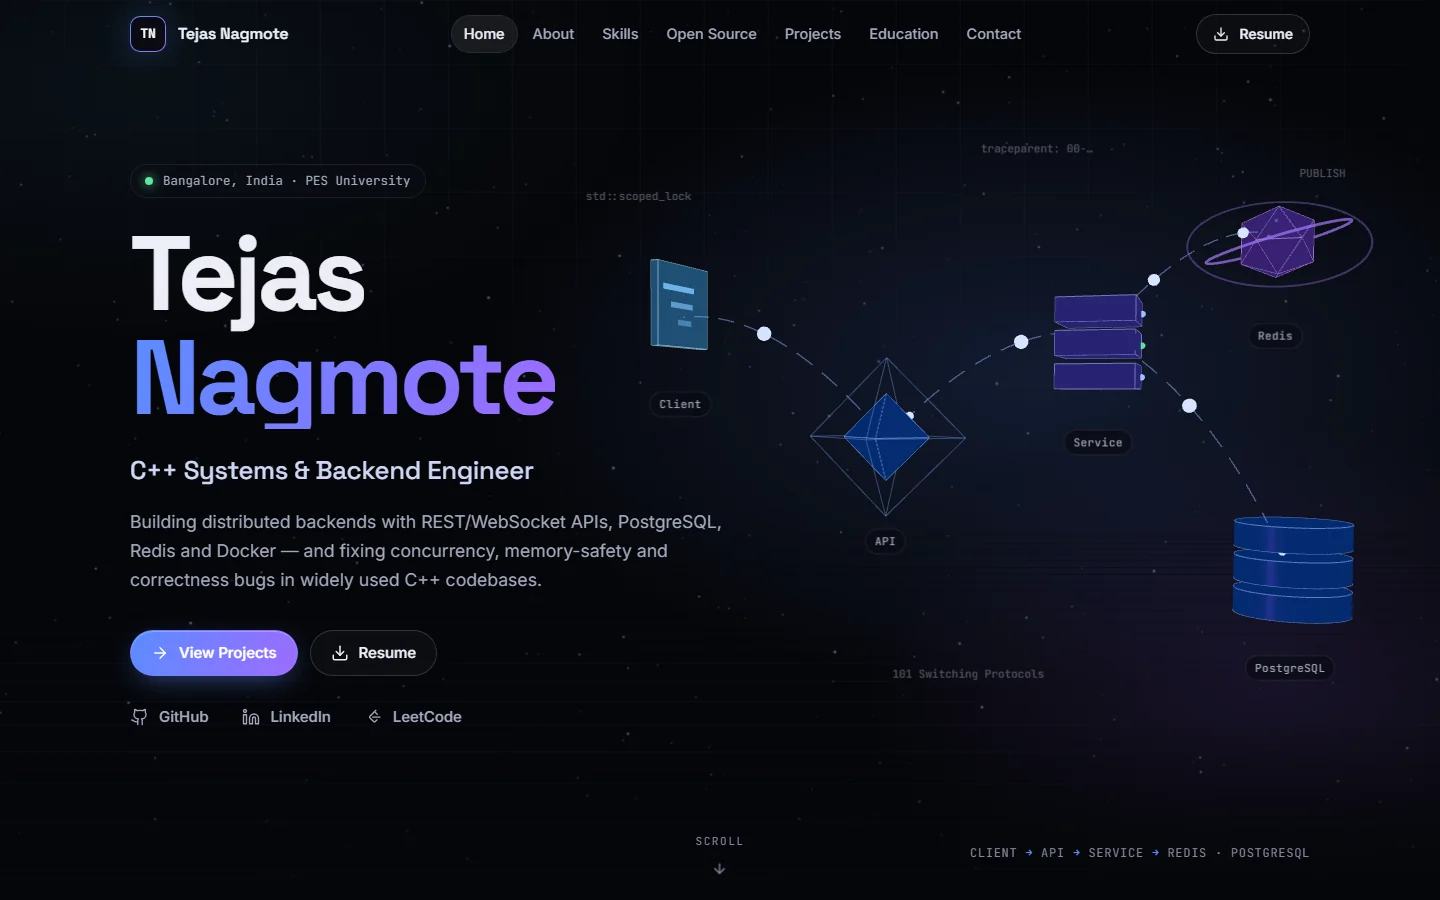
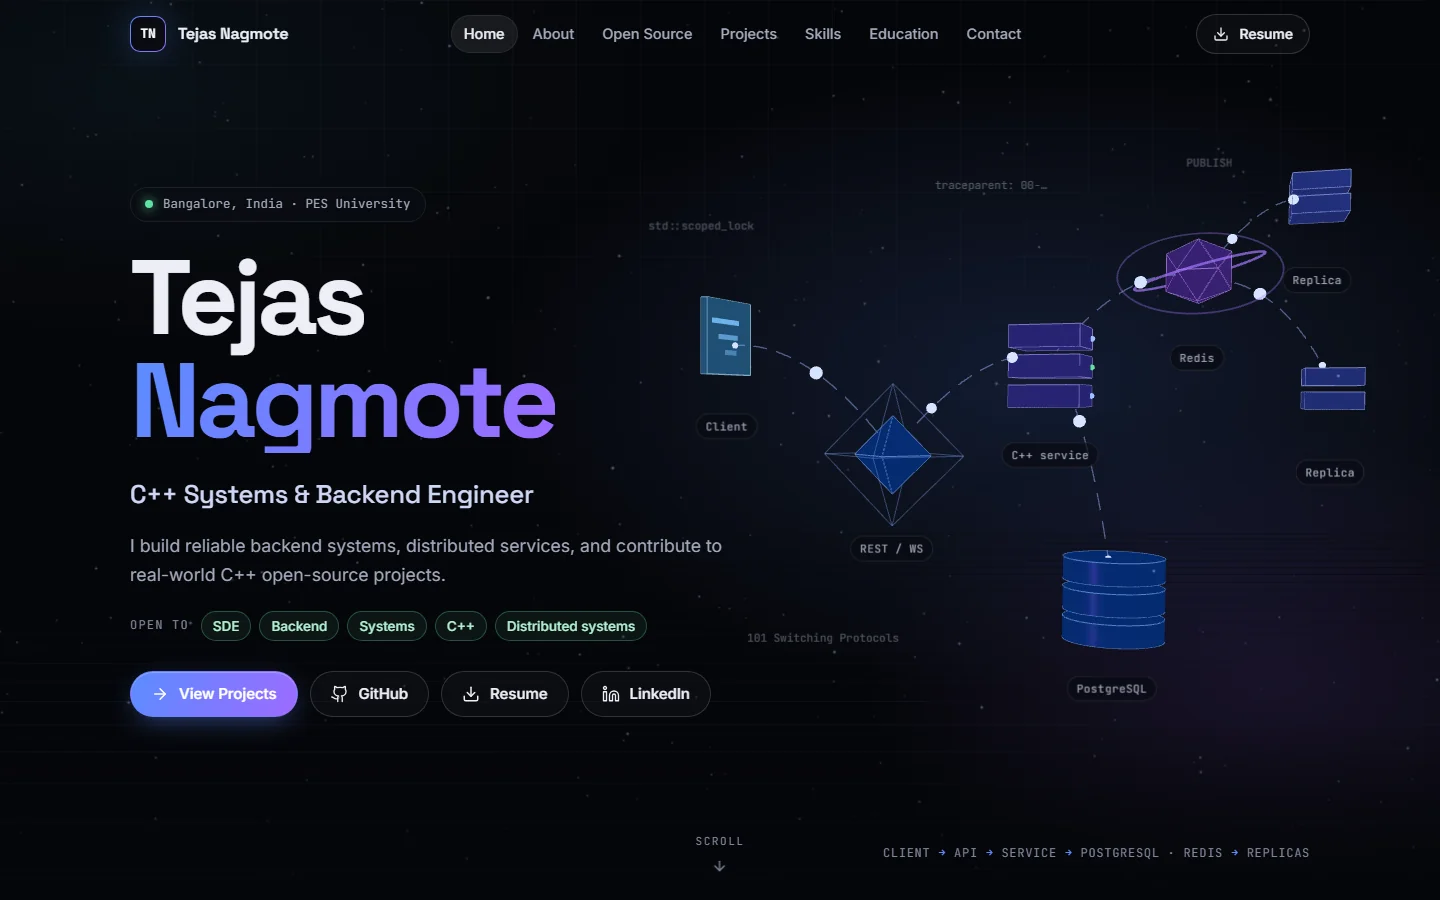
polish loading, performance and docs
- Loading indicators while the 3D scenes download.
- Name the lazily loaded three.js chunk via chunkFileNames, without changing grouping, so it stays out of the initial load.
- Nav background more opaque for browsers without backdrop blur.
- New screenshots and Open Graph image; README rewritten for the new structure, performance notes and Lighthouse results.

diff --git a/src/three/HeroVisual.tsx b/src/three/HeroVisual.tsx
@@ -1,6 +1,7 @@
 import { lazy, Suspense, useEffect, useRef, useState, type RefObject } from 'react'
 import { ErrorBoundary } from '../components/ErrorBoundary'
 import { HeroFallback } from '../components/HeroFallback'
+import { SceneLoader } from '../components/SceneLoader'
 import { useIdle } from '../hooks/useIdle'
 import { usePrefersReducedMotion } from '../hooks/useMediaQuery'
 import { getRenderProfile } from '../utils/device'
@@ -55,7 +56,7 @@ export function HeroVisual({ eventSource }: HeroVisualProps) {
   return (
     <div ref={ref} className="hero-visual">
       <ErrorBoundary name="hero-scene" fallback={<HeroFallback />}>
-        <Suspense fallback={null}>
+        <Suspense fallback={<SceneLoader label="Starting 3D scene" />}>
           {idle && (
             <Scene
               frameloop={frameloop}

diff --git a/vite.config.ts b/vite.config.ts
@@ -40,6 +40,16 @@ export default defineConfig(({ mode }) => {
       target: 'es2022',
       // three.js is lazy-loaded into its own chunk; it is legitimately large.
       chunkSizeWarningLimit: 1000,
+      rolldownOptions: {
+        output: {
+          // Name the lazily loaded 3D vendor chunk after what is in it. This
+          // only renames the file; it does not change how modules are grouped.
+          chunkFileNames: (chunk) =>
+            chunk.moduleIds.some((id) => /node_modules[\\/]three[\\/]/.test(id))
+              ? 'assets/three-[hash].js'
+              : 'assets/[name]-[hash].js',
+        },
+      },
     },
     test: {
       environment: 'node',

diff --git a/src/sections/Hero.css b/src/sections/Hero.css
@@ -383,3 +383,16 @@
     font-size: 11px;
   }
 }
+
+/* The hero's loader sits where the graph will appear: right of the copy on
+   wide screens, above it on phones. */
+.hero-visual .scene-loader {
+  inset: 0 0 0 50%;
+}
+
+@media (max-width: 899px) {
+  .hero-visual .scene-loader {
+    inset: var(--nav-height) 0 auto;
+    height: 36vh;
+  }
+}

diff --git a/README.md b/README.md
@@ -1,51 +1,79 @@
 # Tejas Nagmote — Portfolio
 
-Personal portfolio of **Tejas Nagmote**, a Computer Science undergraduate at PES University
-focused on C++ systems and backend engineering.
+Personal portfolio of **Tejas Nagmote**, C++ systems and backend engineer and Computer Science
+undergraduate at PES University.
 
 **Live site:** https://devtejasx.github.io/tejas-nagmote-portfolio/
 
-![Hero section with the interactive 3D system graph](docs/screenshots/hero.webp)
+![Hero: a 3D scene of a client, API, C++ service, PostgreSQL, Redis and two backend replicas](docs/screenshots/hero.webp)
 
-The hero is a small React Three Fiber scene of the path a request takes through a backend —
-client → API → service → Redis / PostgreSQL — with animated links, travelling packets and pointer
-parallax. The rest of the site covers open-source work, projects (each with an interactive
-architecture diagram), skills, education and contact details. Content comes from the resume
-in [`public/resume.pdf`](public/resume.pdf); the CodeCompass and ARISE project cards come from
-those repositories' own READMEs, and the school entries under Education were added separately.
+The site is built to answer five questions in the first screens: who Tejas is (a C++ systems
+and backend engineer), what he builds (backend and distributed systems), what sets him apart
+(29 merged pull requests across 7 external open-source projects), his best project (a real-time
+C++ chat server) and what he is building now (DeployX). The 3D visuals are diagrams of that
+work rather than decoration: the hero is the chat server's message path, ending in Redis fanning
+events out to other replicas.
 
-## Features
+Content comes from the resume in [`public/resume.pdf`](public/resume.pdf). The pull-request
+explanations are paraphrased from each PR's own description on GitHub, and the CodeCompass and
+ARISE cards from those repositories' READMEs.
 
-- **Interactive 3D hero** — low-poly nodes, animated dashed links, packets moving along the
-  request path, particles, hover highlights and camera parallax.
-- **Open-source section** — the 29 merged pull requests across 7 external projects from the
-  resume, each linked to its PR on GitHub, with a per-project breakdown and a merge-date timeline.
-- **Project cards** — expandable details and animated SVG architecture diagrams. Hover a
-  component, or tap its button, to see what it does.
-- **Responsive layouts** from 320 px phones to wide desktops, with a hamburger menu below 1024 px.
-- **Accessible** — semantic landmarks and headings, a skip link, visible focus states, keyboard
-  support for every control, a focus-trapped mobile menu, and `prefers-reduced-motion` support
-  (movement is removed; the 3D scene renders a single still frame).
-- **Graceful degradation** — no WebGL, a CPU-only WebGL renderer, a render error or a lost GPU
-  context all fall back to an animated CSS/SVG version of the same graph. Each page section is
-  wrapped in its own error boundary.
-- **SEO** — title and description, canonical URL, Open Graph and Twitter cards, JSON-LD
-  `Person` data, `robots.txt`, `sitemap.xml`, favicons and a web manifest.
+## Sections
+
+| Section            | What it shows                                                                                               |
+| ------------------ | ----------------------------------------------------------------------------------------------------------- |
+| Hero               | Role, one-line pitch, roles of interest, and a 3D distributed-system scene                                  |
+| Impact             | 29 merged PRs · 7 projects · 413 GoogleTest tests · 12 ng-log PRs · 6 google/benchmark PRs                  |
+| About              | Short summary and an at-a-glance card: role, focus, differentiator, featured and current project            |
+| Open Source        | Contribution graph, featured ng-log and google/benchmark cards, and a project → PR → problem → fix explorer |
+| Projects           | Real-Time Chat Server (3D architecture), DeployX (animated pipeline, in progress), REST API Testing Suite   |
+| Skills             | Seven skill clusters; selecting a skill shows where it is used on the page                                  |
+| Timeline           | ICSE 2020 · HSC 2023 · B.Tech 2023 · current work · 2027                                                    |
+| Education, Contact | The B.Tech, then email, GitHub, LinkedIn, LeetCode and the resume                                           |
 
 ## Screenshots
 
-| Open source                                               | Projects                                            |
-| --------------------------------------------------------- | --------------------------------------------------- |
-| ![Open source section](docs/screenshots/open-source.webp) | ![Projects section](docs/screenshots/projects.webp) |
+| Open-source explorer                                        | Chat server architecture (3D)                                             |
+| ----------------------------------------------------------- | ------------------------------------------------------------------------- |
+| ![Pull request explorer](docs/screenshots/pr-explorer.webp) | ![3D architecture of the chat server](docs/screenshots/architecture.webp) |
 
-| About                                         | Skills                                          |
-| --------------------------------------------- | ----------------------------------------------- |
-| ![About section](docs/screenshots/about.webp) | ![Skills section](docs/screenshots/skills.webp) |
+| DeployX pipeline                                   | Impact                                          |
+| -------------------------------------------------- | ----------------------------------------------- |
+| ![DeployX pipeline](docs/screenshots/deployx.webp) | ![Impact numbers](docs/screenshots/impact.webp) |
+
+| Skills                                          | Timeline                                                |
+| ----------------------------------------------- | ------------------------------------------------------- |
+| ![Skill clusters](docs/screenshots/skills.webp) | ![Engineering timeline](docs/screenshots/timeline.webp) |
 
 <p>
   <img src="docs/screenshots/mobile-hero.webp" alt="Hero on a phone" width="260" />
-  <img src="docs/screenshots/mobile-menu.webp" alt="Mobile navigation menu" width="260" />
+  <img src="docs/screenshots/mobile-explorer.webp" alt="Pull request explorer on a phone" width="260" />
 </p>
+
+## Features
+
+- **3D hero.** A React Three Fiber scene of the chat server's message path: client → REST/WebSocket
+  → C++ service → PostgreSQL, and service → Redis → two backend replicas, with packets moving along
+  each link and pointer parallax.
+- **Open-source explorer.** A GitHub-style contribution graph of the 29 merge dates feeds a
+  three-pane explorer: pick a project, then a PR, and read the problem and the fix. Filters group
+  the PRs by kind (concurrency, memory safety, undefined behaviour, correctness, build, testing,
+  docs). Every PR links to the merged PR on GitHub.
+- **3D architecture view.** The chat server's architecture as an interactive scene: click a
+  component, or use the buttons beneath it, to read what it does. Phones, machines without a GPU and
+  anyone who prefers it get the same architecture as an SVG diagram.
+- **Animated DeployX pipeline.** Repository → build queue → Docker build → deployment → health
+  check, alternating between a healthy run and a rollback. It can be paused, never auto-plays under
+  reduced motion, and is labelled as in progress.
+- **Skills with evidence** instead of percentage bars, and a **scroll-drawn engineering timeline**
+  that uses only dates the resume states.
+- **Accessible.** Landmarks and a single heading outline, a skip link, visible focus, keyboard and
+  touch access to every interactive view, a focus-trapped mobile menu, `aria-live` explanations, and
+  `prefers-reduced-motion` support.
+- **Graceful degradation.** No WebGL, CPU-only WebGL, a render error or a lost GPU context fall
+  back to SVG versions of the same diagrams; each page section has its own error boundary.
+- **SEO.** Title, description, canonical URL, Open Graph and Twitter cards, JSON-LD `Person` data,
+  `robots.txt`, `sitemap.xml`, favicons and a web manifest.
 
 ## Tech stack
 
@@ -54,7 +82,7 @@ those repositories' own READMEs, and the school entries under Education were add
 | Framework | React 19, TypeScript 6, Vite 8                                                          |
 | 3D        | three.js 0.182, React Three Fiber 9, drei (`QuadraticBezierLine`, `PerformanceMonitor`) |
 | Animation | Motion (`LazyMotion` + `m` components)                                                  |
-| Styling   | Hand-written CSS with design tokens — no CSS framework                                  |
+| Styling   | Hand-written CSS with design tokens, no CSS framework                                   |
 | Icons     | lucide-react, plus inline SVG brand marks                                               |
 | Quality   | ESLint (typescript-eslint, react-hooks, jsx-a11y), Prettier, Vitest                     |
 | Hosting   | GitHub Pages via GitHub Actions                                                         |
@@ -62,17 +90,30 @@ those repositories' own READMEs, and the school entries under Education were add
 three.js is pinned to 0.182: later releases log a deprecation warning for `THREE.Clock`, which
 React Three Fiber 9 still uses internally.
 
+## Performance
+
+- The main bundle is about 131 kB gzipped. three.js and React Three Fiber (about 245 kB gzipped)
+  live in a separate chunk that downloads only when a 3D scene will actually run.
+- The hero scene starts after the page is idle; the architecture scene loads as it nears the
+  viewport. Both stop rendering when scrolled out of view.
+- CPU-only WebGL renderers get the SVG versions, low-end devices get fewer particles, a lower pixel
+  ratio and a 30 fps cap, and any device that cannot hold its frame rate is moved to the same.
+- Fonts are self-hosted, latin subset only. Lighthouse on the production build: 100 for
+  performance, accessibility, best practices and SEO on desktop; 87–93 for performance and 100 for
+  the rest on mobile.
+
 ## Project structure
 
 ```
 src/
 ├── animations/   Motion variants and the lazily loaded feature bundle
-├── components/   Reusable UI: nav, buttons, tilt cards, counters, PR lists, diagrams
-├── data/         Resume content (profile, skills, projects, open source) + tests
+├── components/   Nav, buttons, tilt cards, counters, architecture views, DeployX pipeline
+│   └── oss/      Contribution graph and pull-request explorer
+├── data/         All content: profile, skills, projects, PRs and their problem/fix notes + tests
 ├── hooks/        Media queries, scroll-spy, idle detection
 ├── sections/     One component (and stylesheet) per page section
 ├── styles/       Fonts, design tokens, base styles, shared component styles
-├── three/        The hero scene: layout data, nodes, links, particles, labels
+├── three/        3D scenes: shared graph nodes and links, label projector, hero and architecture
 ├── utils/        WebGL capability probe, device profile, clipboard helper
 ├── App.tsx
 └── main.tsx
@@ -80,22 +121,15 @@ src/
 
 ### Architecture notes
 
-- **Content is data.** Everything shown on the page lives in `src/data`, separate from the UI.
-  `src/data/data.test.ts` pins the figures to the resume (29 PRs, 7 projects, per-project counts,
-  only DeployX marked in progress) so a content edit cannot quietly drift from it.
-  `pullRequests.ts` was generated from `gh search prs --author devtejasx --merged`, limited to the
-  29 PRs merged by 2026-09-21.
-- **The 3D scene is optional.** `three/HeroVisual.tsx` decides what to render. The scene chunk
-  (three.js + R3F) is lazy-loaded and only mounted once the page is idle, and only on
-  GPU-accelerated WebGL. Rendering pauses whenever the hero is off screen; low-end devices get
-  fewer particles, a lower pixel ratio and a 30 fps cap, and any device whose frame rate drops
-  is moved to the same settings.
-- **Labels without extra React roots.** Node labels are ordinary DOM elements. A projector inside
-  the canvas maps their 3D anchors to screen space each frame and writes a CSS transform, so
-  moving labels never re-renders React.
-- **Accessible diagrams.** Each architecture diagram is an SVG with a text summary, and every
-  node also has a real button, so the explanations work with a keyboard, a touch screen or a
-  screen reader — not just a mouse.
+- **Content is data.** Everything on the page lives in `src/data`. `data.test.ts` pins it to the
+  resume: the five impact figures, the per-project PR counts, that only DeployX is in progress, that
+  every merged PR has a problem/fix note (and nothing else does), that every skill-evidence entry
+  names a real project, and that the timeline uses only dates from the education data.
+- **One graph, two scenes.** `three/graph.tsx` holds the node and link components; the hero and the
+  architecture view are different layouts of the same pieces. Node labels are plain DOM elements
+  positioned each frame by a projector, so they never re-render React.
+- **Every interactive view has a non-3D path.** The architecture, explorer and pipeline are all
+  buttons first; the 3D and animation sit on top.
 
 ## Getting started
 
@@ -116,8 +150,8 @@ npm run dev        # http://localhost:5173
 | `npm test`             | Vitest data-integrity tests               |
 | `npm run format:check` | Prettier check (`npm run format` to fix)  |
 
-To see the 3D scene on a machine without GPU-accelerated WebGL (a VM or a headless browser,
-for example), add `?3d=force` to the URL.
+On a machine without GPU-accelerated WebGL (a VM or a headless browser), add `?3d=force` to the
+URL to see the 3D scenes anyway.
 
 ## Configuration
 
@@ -144,11 +178,11 @@ set `VITE_SITE_URL` to the new domain (with a trailing slash). No other configur
 ## Credits
 
 - [three.js](https://threejs.org/), [React Three Fiber](https://github.com/pmndrs/react-three-fiber)
-  and [drei](https://github.com/pmndrs/drei) — MIT
-- [Motion](https://motion.dev/) — MIT
-- [Lucide](https://lucide.dev/) icons — ISC
+  and [drei](https://github.com/pmndrs/drei): MIT
+- [Motion](https://motion.dev/): MIT
+- [Lucide](https://lucide.dev/) icons: ISC
 - [Inter](https://rsms.me/inter/), [Space Grotesk](https://github.com/floriankarsten/space-grotesk)
-  and [JetBrains Mono](https://www.jetbrains.com/lp/mono/) via [Fontsource](https://fontsource.org/)
-  — SIL Open Font License 1.1
+  and [JetBrains Mono](https://www.jetbrains.com/lp/mono/) via [Fontsource](https://fontsource.org/):
+  SIL Open Font License 1.1
 
 The resume, project descriptions and other personal content belong to Tejas Nagmote.
